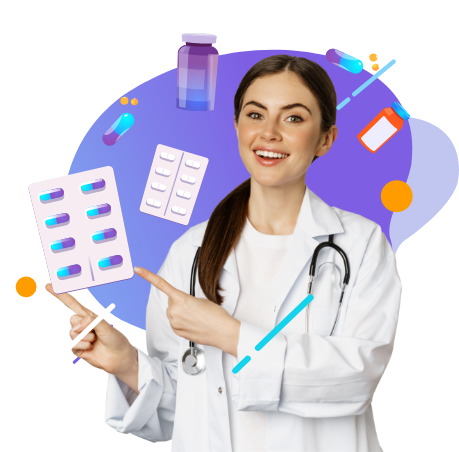
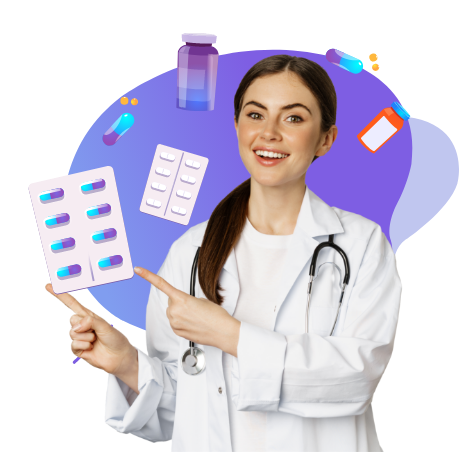
Ajustes 2

diff --git a/src/styles/_custom.sass b/src/styles/_custom.sass
@@ -1,22 +1,21 @@
 .banner-principal-decorativo
   &-1
-    animation: float1 3.5s ease-in-out infinite alternate
+    animation: rotation 9s infinite linear
     position: absolute
-    top: 40%
-    right: 50%
-  &-2
-    animation: float1 2.8s ease-in-out infinite alternate
-    position: absolute
-    top: 51%
-    right: 30%
+    width: 108%
+    bottom: 45%
+    left: -10%
 
-
-@keyframes float1
+@keyframes rotation
   0%
-    transform: translateY(20px)
-
+    transform: rotate(0deg)
+    opacity: 0
+  50%
+    transform: rotate(180deg)
+    opacity: 1
   100%
-    transform: translateY(0px)
+    transform: rotate(359deg)
+    opacity: 0
 
 .banner-principal
   .banner-principal__img
